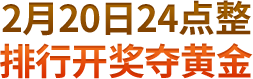
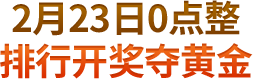
修改分享海报

Changed region(s): [[0.0, 0.0, 0.996, 0.4557]]

diff --git a/src/panel/poster/poster.jsx b/src/panel/poster/poster.jsx
@@ -6,54 +6,114 @@ import { observer } from "mobx-react";
 import store from "../../store/index";
 import modalStore from "@src/store/modal";
 import API from "../../api";
-import {_throttle} from "@src/utils/utils"
+import { _throttle } from "@src/utils/utils";
 import { htmlShot } from "@spark/utils";
 import "./poster.less";
-import {USER_AVATAR} from "@src/utils/constants"
+import { USER_AVATAR } from "@src/utils/constants";
 @observer
 class Poster extends React.Component {
   constructor(props) {
     super(props);
     this.state = {
       posterImg: "",
-      codeImg:""
-    }
-    this.timeOutEvent = null
+      codeImg: "",
+    };
+    this.timeOutEvent = null;
   }
 
   async componentDidMount() {
     await this.getErCodeImg();
-    const dataUrl = await htmlShot(this.poster); //整个页面截图
-    this.setState({
-      posterImg: dataUrl
-    })
   }
 
+  // 画图
+  canvasDraw = async (codeImg) => {
+    const { homeInfo } = store;
+    const width = (this.canvasRef.width = 956);
+    const height = (this.canvasRef.height = 607);
+    const ctx = this.canvasRef.getContext("2d");
+    const imgs = await Promise.all([
+      await this.loadImg(
+        "//yun.duiba.com.cn/aurora/assets/a28b65a0186ab89e87adbc9c99127a77c9f96962.png"
+      ),
+      await this.loadImg(homeInfo?.avatar || USER_AVATAR),
+      await this.loadImg(codeImg),
+    ]);
+    ctx.drawImage(imgs[0], 0, 0, width, height);
+
+    ctx.drawImage(imgs[2], 727, 420, 146, 146);
+
+    ctx.font = "26px Arial";
+    ctx.fillStyle = "#0d7bd8";
+    ctx.fillText(`我正在和${homeInfo?.pvNum || 0}人一起冰雪跑酷`, 140, 380);
+
+    const pat = ctx.createPattern(imgs[1], "repeat");
+    ctx.fillStyle = pat;
+    ctx.arc(82, 369, 35, 0, 2 * Math.PI);
+    ctx.clip();
+    ctx.drawImage(imgs[1], 47, 334, 70, 70);
+
+    var image = new Image();  
+    image.src = this.canvasRef.toDataURL("image/png");
+    console.log(image)
+  };
+
+  loadImg = (src) => {
+    return new Promise((res) => {
+      const image = new Image();
+      image.setAttribute('crossOrigin', 'anonymous');
+      image.onload = () => res(image);
+      image.src = src;
+    });
+  };
+
   // 获取二维码图片
-  getErCodeImg = async() => {
-    const {success, data} = await API.getCode({
-      shareCode: store.inviteCode
-    })
-    if(success) {
+  getErCodeImg = async () => {
+    const { success, data } = await API.getCode({
+      shareCode: store.inviteCode,
+    });
+    if (success) {
       this.setState({
-        codeImg: data.imageUrl
-      })
+        codeImg: data.imageUrl,
+      });
+      this.canvasDraw(data.imageUrl);
     }
-  }
-  
+  };
+
+  // convertCanvasToImage(canvas) {
+  //   var image = new Image();
+  //   image.src = canvas.toDataURL("image/png");
+  //   return image;
+  // }
+
   render() {
-    const {posterImg, codeImg} = this.state;
-    const {homeInfo} = store;
+    const { posterImg, codeImg } = this.state;
+    const { homeInfo } = store;
     return (
-      <div className="posterpage" ref={(el) => (this.poster = el)}>
-        <div className="userInfo-poster">
-          <img src={homeInfo?.avatar || USER_AVATAR} alt="" className="avatar" />
-          <p>我正在和{homeInfo?.pvNum||0}人一起冰雪跑酷</p>
-        </div>
-        <img src={codeImg} alt="" className="codeBox"/>
-        {/* <img src={USER_AVATAR} alt="" className="ren"/> */}
-        {/* <img src={posterImg} className="posterpage-img"/> */}
-        <div className="back-poster" onClick={() => modalStore.closePop("Poster")}></div>
+      <div className="posterpage">
+        {/* <div className="poster" ref={(el) => (this.poster = el)}>
+          <div className="userInfo-poster">
+            <img
+              src={homeInfo?.avatar || USER_AVATAR}
+              alt=""
+              className="avatar"
+            />
+            <p className="haveperson">
+              我正在和{homeInfo?.pvNum || 0}人一起冰雪跑酷
+            </p>
+          </div>
+          <img src={codeImg} alt="" className="codeBox"/>
+        </div> */}
+        <canvas
+          className="posterpage-img"
+          ref={(el) => (this.canvasRef = el)}
+        ></canvas>
+        {/* 二维码图片 */}
+        <img src={codeImg} className="codeImg"/>
+        <img src="" alt="" className="posterImg" />
+        <div
+          className="back-poster"
+          onClick={() => modalStore.closePop("Poster")}
+        ></div>
         <p className="longpress-text">长按保存邀请海报</p>
       </div>
     );

diff --git a/src/panel/poster/poster.less b/src/panel/poster/poster.less
@@ -3,31 +3,40 @@
 .posterpage {
   width: 956px;
   height: 607px;
-  .sparkBg("homePage/poster.png");
   position: absolute;
   transform: rotate(90deg);
   .posterpage-img {
     width: 956px;
     height: 607px;
+    // transform: rotate(-90deg);
+    // opacity: 0;
+  }
+  .poster {
+    width: 956px;
+    height: 607px;
+    position: absolute;
+    z-index: -1;
+    .sparkBg("homePage/poster.png");
+
   }
   .userInfo-poster {
     position: absolute;
     top: 334px;
     left:47px;
-    display: flex;
-    align-items: center;
+    // display: flex;
+    // align-items: center;
     img {
       width: 69px;
       height: 69px;
-      border: 2px solid #fff;
-      box-sizing: border-box;
-      border-radius: 50%;
-      margin-right: 8px;
+      // border: 2px solid #fff;
+      // box-sizing: border-box;
+      // border-radius: 50%;
+      // margin-right: 8px;
     }
-    p {
+    .haveperson {
       color: #0d7bd8;
       font-size: 26px;
-      font-weight: bold;
+      // font-weight: bold;
     }
   }
   .codeBox {
@@ -47,6 +56,14 @@
       // border-radius: 50%;
       overflow:hidden;
     }
+  }
+  .codeImg {
+    position: absolute;
+    width: 146px;
+    height: 146px;
+    top: 417px;
+    left: 722px;
+    opacity: 0;
   }
   .ren {
     position: absolute;

diff --git a/src/panel/rank/rank.jsx b/src/panel/rank/rank.jsx
@@ -57,7 +57,7 @@ class Rank extends React.Component {
         <span className="shutDown" onClick={() => modalStore.closePop("Rank")}></span>
         {/* 奖品区域 */}
         <div className="rank-prizeList">
-          <p className="beforeInvitingFriends">将在2月20日24点开奖后发放至「我的奖品」</p>
+          <p className="beforeInvitingFriends">将在2月23日0点开奖后发放至「我的奖品」</p>
           <div className="prizeListBox">
             {
               Boolean(rankDetail?.rankPrize?.length) && rankDetail.rankPrize.map((item,index)=> {

diff --git a/mock/activity.js b/mock/activity.js
@@ -549,16 +549,16 @@ const queryNewGuide = {
   "code": "",
   "data": {
     "skipNewGuide": false,
-    "completeGuide": true,
-    "alreadyGuideSteps": 3,
-    "allGuideSteps": 3,
+    "completeGuide": false,
+    "alreadyGuideSteps": 2,
+    "allGuideSteps": 4,
     "extra": ""
   }
 }
 
 //递进新手引导完成的步数
 const stepNewGuide = 
-{"code":"200900","data":null,"message":"新手引导已完成","success":false}
+{"code":"200900","data":null,"message":"新手引导已完成","success":true}
 
 // {
 //   "success": true,

diff --git a/src/components/LastPrize/LastPrize.jsx b/src/components/LastPrize/LastPrize.jsx
@@ -21,7 +21,7 @@ class LastPrize extends React.Component {
     const { homeInfo } = store;
     if(!store?.newGuideStep?.completeGuide) return false;
     if(homeInfo?.openPrizeTime > homeInfo?.currentTime) {
-      Toast("别急，快去闯关吧！\n2月20日24点整开奖哦")
+      Toast("别急，快去闯关吧！\n2月23日0点整开奖哦")
       // if(document.getElementById("overlay_layer")) {
       //   document.getElementById("overlay_layer").style.display = 'block';
       // }

diff --git a/sparkrc.js b/sparkrc.js
@@ -10,5 +10,5 @@ module.exports ={
   "IMAGE_Q2": 0.8,
   "RES_PATH": "/src/assets/",
   "RES_PATH_PROD": "//yun.duiba.com.cn/spark/v2/temp_base/1642927513372",
-  "JS_PATH_PROD": "https://yun.duiba.com.cn/spark/v2/temp_base/1642933128567/js"
+  "JS_PATH_PROD": "https://yun.duiba.com.cn/spark/v2/temp_base/1642990148255/js"
 }

diff --git a/mock/homeInfo.js b/mock/homeInfo.js
@@ -11,7 +11,7 @@ module.exports = {
     activityEndTime: 12,
     currentTime: 10,
     openPrizeTime: 12,
-    pvNum: 86505640.30935124, //用户参与数量
+    pvNum: 86505640, //用户参与数量
     assistInfo: {
       assistNum: 0, //邀请人数
       assistGoldNum: 127283683648374, //获得金币数量
